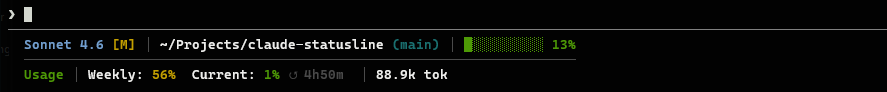
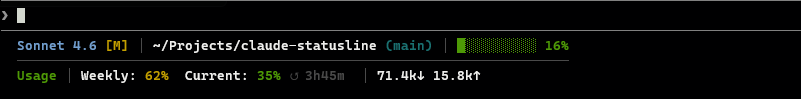
docs: update README to clarify split input/output token counts display

diff --git a/README.md b/README.md
@@ -4,7 +4,7 @@
 [![npm](https://img.shields.io/npm/v/@alyibrahim/claude-statusline)](https://www.npmjs.com/package/@alyibrahim/claude-statusline)
 [![License: MIT](https://img.shields.io/badge/License-MIT-yellow.svg)](LICENSE)
 
-**A rich, fast statusline for [Claude Code](https://claude.ai/code)** — shows model, git branch, context usage, rate limits, session cost, and real-time token consumption after every response.
+**A rich, fast statusline for [Claude Code](https://claude.ai/code)** — shows model, git branch, context usage, rate limits, session cost, and split input/output token counts after every response.
 
 Runs as a **compiled Rust binary** (~5ms startup vs ~100ms for Node.js). Zero shell dependencies. One install command.
 
@@ -28,14 +28,14 @@ Done. The statusline configures itself automatically. Restart Claude Code to see
 
 **Line 1** — Model name · Effort level · Active subagents · Current task · Directory `(branch +commits)` · Context bar
 
-**Line 2** — Weekly token usage · 5h usage · Reset countdown *(Pro/Max)* — or — Session cost *(API key)* · Session token count
+**Line 2** — Weekly token usage · 5h usage · Reset countdown *(Pro/Max)* — or — Session cost *(API key)* · Session tokens `X↓ Y↑`
 
 | Feature | Details |
 |---|---|
 | Context bar | Normalized to usable % — accounts for the auto-compact buffer |
 | Rate limits | Shows 5h and weekly usage with color-coded thresholds |
 | Session cost | Displayed only for API key users, hidden for subscribers |
-| Session tokens | Real-time token consumption via JSONL offset caching — updates between turns, not just at turn start |
+| Session tokens | Real-time via JSONL offset caching — split input/output display (`X↓ Y↑`), formatted as `k` or `M` for large counts |
 | Active agents | Counts running subagents from your `~/.claude/todos/` directory |
 | Effort level | Reads `CLAUDE_CODE_EFFORT_LEVEL` env var or `settings.json` |
 | Git branch | Detected automatically, silently absent if not a git repo |
@@ -70,7 +70,7 @@ npm picks the right one automatically. If your platform isn't listed, the JS fal
 | Subscription-aware | Shows usage/resets for Pro/Max, cost for API | Treat everyone as API user |
 | Context bar | Usable % after auto-compact buffer | Raw remaining % |
 | Subagent counter | Counts active agents from todos dir | — |
-| Session tokens | Real-time via JSONL offset cache | Stale stdin snapshot or none |
+| Session tokens | Real-time via JSONL offset cache, split I/O (`X↓ Y↑`) | Stale stdin snapshot or none |
 | Session commits | Tracks git commits made this session | — |
 
 ---
